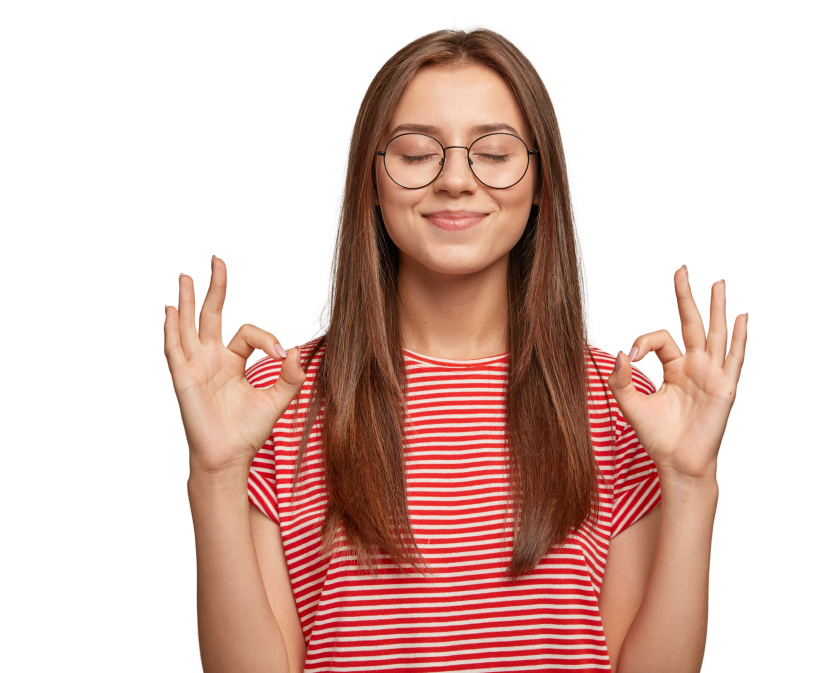
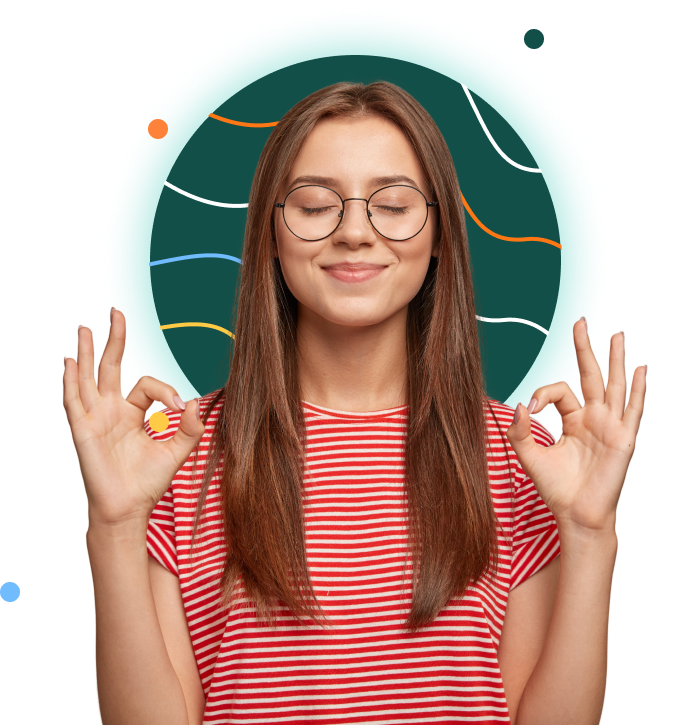
header__hero img replaced

diff --git a/css/main.min.css b/css/main.min.css
@@ -1,1 +1,1 @@
-@import"https://fonts.googleapis.com/css2?family=Open+Sans:ital,wght@0,300..800;1,300..800&family=Poppins:ital,wght@0,100;0,200;0,300;0,400;0,500;0,600;0,700;0,800;0,900;1,100;1,200;1,300;1,400;1,500;1,600;1,700;1,800;1,900&family=Roboto:ital,wght@0,100;0,300;0,400;0,500;0,700;0,900;1,100;1,300;1,400;1,500;1,700;1,900&display=swap";*{padding:0px;margin:0px;border:none}*,*::before,*::after{box-sizing:border-box}a,a:link,a:visited{text-decoration:none}a:hover{text-decoration:none}aside,nav,footer,header,section,main{display:block}h1,h2,h3,h4,h5,h6,p{font-size:inherit;font-weight:inherit}ul,ul li{list-style:none}img{vertical-align:top}img,svg{max-width:100%;height:auto}address{font-style:normal}input,textarea,button,select{font-family:inherit;font-size:inherit;color:inherit;background-color:rgba(0,0,0,0)}input::-ms-clear{display:none}button,input[type=submit]{display:inline-block;box-shadow:none;background-color:rgba(0,0,0,0);background:none;cursor:pointer}input:focus,input:active,button:focus,button:active{outline:none}button::-moz-focus-inner{padding:0;border:0}label{cursor:pointer}legend{display:block}:root{--container-width: 1124px;--container-padding: 15px;--font-main: "Roboto", sans-serif;--font-secondary: "Poppins", sans-serif;--font-third: "Open Sans", sans-serif;--page-bg: #fff;--header-bg: #e9fbf9;--bage-bg: #fff;--text-color: #464646;--section-title: #021d1a;--accent: #ff823b;--accent-second: #124f48;--accent-second-muted: rgba(18, 79, 72, 0.37);--bage-text: #ff6107;--laptop-size: 1199px;--table-size: 959px;--mobile-size: 599px}html{scroll-behavior:smooth}body{font-family:var(--font-main);background-color:var(--page-bg);color:var(--text-color)}.none{display:none !important}.visually-hidden{position:absolute;width:1px;height:1px;margin:-1px;border:0;padding:0;white-space:nowrap;-webkit-clip-path:inset(100%);clip-path:inset(100%);clip:rect(0 0 0 0);overflow:hidden}.no-scroll{overflow-y:hidden}.container{padding:0 var(--container-padding);max-width:var(--container-width);margin:0 auto}@media(max-width: 1199px){.container{width:900px}}@media(max-width: 899px){.container{width:768px}}@media(max-width: 599px){.container{width:100%}}.container-wide{padding:0 var(--container-padding);max-width:1145px;margin:0 auto}.container-figure{padding:0 var(--container-padding);margin:0 auto;max-width:1349px}.logo{font-size:32px}.nav__list{display:flex;-moz-column-gap:62px;column-gap:62px}.nav__list a{position:relative;font-size:16px;color:var(--text-color);transition:all .2s ease-in}.nav__list a::before{position:absolute;content:"";height:2px;width:0;bottom:0;right:0;transition:width .2s ease-in;background-color:#ff7715}.nav__list a:hover{text-shadow:-0.2px 0 0 #0b041b}.nav__list a:hover::before{width:29px}.nav-mobile{display:none}.nav-icon{width:40px;height:25px;display:none;justify-content:center;align-items:center;cursor:pointer}.nav-icon__middle{position:relative;width:40px;height:5px;background-color:#124f48}.nav-icon__middle::before,.nav-icon__middle::after{content:"";position:absolute;left:0;width:40px;height:5px;transition:transform .2s ease-in,top .2s linear .2s;background-color:#124f48}.nav-icon__middle::before{top:-10px}.nav-icon__middle::after{top:10px}.nav-icon.nav-icon--active{z-index:6;position:fixed;top:30px;right:80px}.nav-icon.nav-icon--active .nav-icon__middle{background-color:rgba(0,0,0,0)}.nav-icon.nav-icon--active .nav-icon__middle::before,.nav-icon.nav-icon--active .nav-icon__middle::after{top:0;transition:top .2s linear,transform .2s ease-in .2s;background-color:#124f48}.nav-icon.nav-icon--active .nav-icon__middle::before{transform:rotate(45deg)}.nav-icon.nav-icon--active .nav-icon__middle::after{transform:rotate(-45deg)}.h1{font-weight:800;font-size:64px;line-height:1.25;color:var(--section-title);font-family:var(--font-secondary)}.h2{font-weight:700;font-size:44px;line-height:1.82;color:var(--section-title);font-family:var(--font-secondary)}.h3{font-weight:700;font-size:24px;color:var(--section-title)}.h3--darker{color:#000}.word-accent{color:#ff823b}.color-figure{height:724px;background-image:url("./../img/header/rectangle.svg");background-position:center center;background-size:100% 100%;background-repeat:no-repeat;border-radius:30px}.badge{display:inline-block;padding-left:20px;padding-right:20px;height:38px;line-height:38px;border-radius:4px;border:1px solid #f2faf9;background-color:var(--bage-bg);font-size:16px;letter-spacing:.1em;color:#ff6107}.widget{padding:43px 36px 45px 39px;width:314px;height:314px;display:grid;grid-template-columns:repeat(2, 1fr);grid-template-rows:repeat(2, 1fr);-moz-column-gap:31px;column-gap:31px;row-gap:18px;background-color:rgba(255,255,255,.9);box-shadow:0 3px 84px 0 rgba(142,199,192,.3);border-radius:20px}.socials{display:flex;align-items:center;justify-content:space-between}.socials li:not(:last-child){margin-right:30px}.socials a{opacity:.51;transition:opacity .2s ease-in}.socials a:hover{opacity:1}.btn-video{position:relative;padding-left:55px;padding-right:36px;height:57px;font-weight:700;font-size:18px;letter-spacing:.05em;color:#ff823b}.btn-video::before{position:absolute;top:50%;left:0;transform:translateY(-50%);content:url("./../img/icons/header/play.svg");width:39px;height:39px;background-color:#fff;border-radius:50%;box-shadow:0 0 24px 0 #d6e2e1;line-height:39px}.btn-solid{padding-left:39px;padding-right:39px;display:flex;justify-content:space-between;align-items:center;height:57px;line-height:57px;border-radius:31px;background-color:#ff823b;font-weight:700;font-size:18px;letter-spacing:.05em;color:#fff;transition:all .2s ease-in}.btn-solid:hover{background-color:#124f48}.btn-solid--login{background-color:#124f48}.btn-solid--login:hover{background-color:#ff823b}.btn-solid--view-more{padding-left:36px;padding-right:36px;-moz-column-gap:12px;column-gap:12px}.btn-solid--subscribe{padding-right:35px;-moz-column-gap:26px;column-gap:26px}.btn-outline{display:flex;align-items:center;-moz-column-gap:10px;column-gap:10px;height:57px;padding-left:35px;padding-right:35px;border-radius:31px;background-color:#fff;font-weight:700;font-size:18px;letter-spacing:.05em;color:#124f48;transform:translateX(-17%);transition:all .2s ease-in}.btn-outline svg{stroke:#124f48;transition:stroke .1s ease}.btn-outline:hover{background-color:#ff823b;color:#fff}.btn-outline:hover svg{stroke:#fff}.service-card{padding:50px 35px 45px 35px;display:block;width:365px;height:415px;cursor:pointer;transition:all .2s ease-in}.service-card:not(:last-child){margin-right:16px}.service-card:hover{background-color:#fff;box-shadow:0 20px 84px 0 rgba(245,245,245,.8)}.service-card:hover .btn-outline{transform:translateX(0);background-color:#ff823b;color:#fff}.service-card:hover .btn-outline svg{stroke:#fff}.service-card:hover .service-card__img svg{box-shadow:30px 44px 84px 0 rgba(208,211,231,.31)}.service-card__img{margin-bottom:27px;display:flex;justify-content:center;align-items:center;width:80px;height:80px;background-color:#dbffe9;border-radius:20px;overflow:hidden;transition:box-shadow .1s ease-in}.service-card__img--clip{background-color:#fff7ca}.service-card__img--pie{background-color:#ffe9e0}.service-card__text{margin-bottom:10px}.service-card__title{margin-bottom:35px;display:-webkit-box;-webkit-box-orient:vertical;-webkit-line-clamp:1;overflow:hidden}.service-card__desc{height:81px;font-family:var(--font-third);font-size:18px;line-height:2;display:-webkit-box;-webkit-box-orient:vertical;-webkit-line-clamp:2;overflow:hidden}.service-card__btn{width:206px}.achievements-card{width:511px}.achievements-card:not(:last-child){margin-bottom:45px}.achievements-card__img{margin-bottom:35px;width:100%;height:600px;border-radius:20px;overflow:hidden;background-color:#edfffd;background-image:url("./../img/achievements/circle.svg");background-position:51% 274%;background-size:506px 506px;background-repeat:no-repeat}.achievements-card__img img{position:relative;left:50%;top:71px;transform:translateX(-50%);width:377px;height:529px;border-top-left-radius:20px;border-top-right-radius:20px;box-shadow:0 21px 94px 0 rgba(131,193,186,.38);-o-object-fit:cover;object-fit:cover;overflow:hidden}.achievements-card__img--lightBg{background-color:#fff8f4;background-image:url("./../img/achievements/circle-light.svg")}.achievements-card__img--lightBg img{box-shadow:0 34px 80px 0 rgba(80,153,145,.24)}.achievements-card__title{margin-bottom:37px}.achievements-card__desc{font-size:18px;line-height:2}.achievements-card__btn{width:245px}.data-grid{margin-left:auto;width:465px;height:410px}.data-grid li{padding:14px 0;display:grid;grid-template-columns:83px 162px 1fr;-moz-column-gap:38px;column-gap:38px;align-items:center}.data-grid li:not(:last-child){margin-bottom:30px}.data-grid__number{font-weight:700;font-size:36px;line-height:1.44;color:rgba(18,79,72,.37)}.data-grid__title{font-weight:500;font-size:18px;line-height:1.44;color:#124f48}.data-grid__desc{font-weight:700;font-size:14px;line-height:1.86;color:#ff823b}.slider__item{display:inline-block;width:520px;height:649px;padding-bottom:19px;border-radius:10px;background-color:#fff;cursor:pointer;transition:all .2s ease-in}.slider__item:hover .slider__img img{filter:saturate(130%)}.slider__item:hover .btn-outline{transform:translateX(0);background-color:var(--accent);color:#fff}.slider__item:hover .btn-outline svg{stroke:#fff}.slider__img{margin-bottom:43px;padding-top:18px;position:relative;width:510px;height:328px;text-align:center;overflow:hidden}.slider__img img{transition:all .2s ease-in;pointer-events:none}.slider__badge{position:absolute;z-index:1;top:0;right:0;display:flex;align-items:center;width:75px;height:75px;padding:8px 17px;border-radius:10px;background-color:#124f48;font-weight:700;font-size:24px;line-height:1.25;color:#fff;transition:all .2s ease-in}.slider__text{margin-bottom:45px;padding-right:4px}.slider__title{margin-bottom:35px;font-weight:700;font-size:24px;line-height:1.25;color:#000}.slider__btn{width:207px}.slider__desc{height:90px;font-size:18px;line-height:1.67;color:var(--text-color);overflow:hidden}.slider__desc p{display:-webkit-box;-webkit-box-orient:vertical;-webkit-line-clamp:3;overflow:hidden}.slider__arrow{position:absolute;top:0;right:0;transition:opacity .2s ease-in}.slider__arrow:hover{opacity:.5}.slider__arrow--left{margin-right:38px}.header-top{padding-top:40px;padding-bottom:70px}.header-top__row{display:flex;align-items:center;justify-content:space-between;width:1094px}.header-top__logo{margin-right:153px;display:inline-block}.header-top__btn{margin-left:auto}.header{position:relative;height:850px}.header__widget{position:absolute;bottom:45px;right:50%;transform:translateX(107%)}.header__content{padding-top:53px;width:1180px;overflow:hidden;margin-left:110px;position:relative}.header__hero{position:relative;margin-left:auto;width:900px;height:673px;transform:translateX(12%);pointer-events:none}.header__hero img{width:100%;height:100%;-o-object-fit:contain;object-fit:contain}.header__hero::after{z-index:-1;content:url("./../img/header/circle.svg");position:absolute;top:0;left:50%;transform:translateX(-41%)}.header__hero::before{content:url("./../img/header/dots.svg");position:absolute;top:0;left:0;transform:translate(25%, -4%)}.header__text{padding-top:20px;position:absolute;width:570px}.header__badge{margin-bottom:30px}.header__title{margin-bottom:40px}.header__desc{margin-bottom:51px;max-width:428px;font-size:18px;line-height:1.67}.header__desc p+p{margin-top:10px}.header__buttons{display:flex;-moz-column-gap:55px;column-gap:55px}.our-clients{padding-top:45px;padding-bottom:100px}.our-clients__list{display:flex;flex-wrap:wrap;gap:30px}.our-clients__list li{display:flex;justify-content:center;align-items:center;width:255px;height:103px;background-color:#f1faf9;border-radius:10px}.service{padding-bottom:158px}.service__header{margin-bottom:15px;display:flex;align-items:center}.service__title{max-width:524px}.service__desc{margin-left:111px;max-width:428px;font-size:18px;line-height:1.67;color:var(--text-color)}.service-card__row{display:flex}.achievements{padding-bottom:140px}.achievements__row{display:flex;-moz-column-gap:56px;column-gap:56px}.achievements__column:first-child{width:540px}.achievements__badge{margin-bottom:10px}.achievements__title{margin-bottom:133px}.achievements__data-grid{margin-bottom:70px;padding-top:91px}.blog{padding-bottom:120px}.blog__badge{margin-bottom:25px;text-align:center}.blog__title{margin-bottom:8px;text-align:center}.blog__desc{margin-left:auto;margin-right:auto;max-width:662px;text-align:center}.blog__desc p{font-size:18px;line-height:1.67}.blog__slider{position:relative;padding-top:85px}.cta{padding-top:60px;padding-bottom:35px;background-color:#e9fbf9}.cta__title{margin-bottom:25px;margin-left:auto;margin-right:auto;max-width:690px;text-align:center}.cta__button{display:flex;justify-content:center;align-items:center}.cta__text{font-size:18px;color:#ff823b;font-family:var(--font-secondary)}.cta__link{margin-left:27px}.footer{color:#124f48;background-color:#e9fbf9}.footer__top{padding-top:35px;padding-bottom:70px}.footer__bottom{padding-top:21px;padding-bottom:21px;background-color:#124f48;color:#fff}.footer__row{display:flex;align-items:center;justify-content:space-between}.footer__logo-wrapper{height:64px;width:157px}.footer__logo{margin-bottom:8px}.footer__text{display:block;font-size:12px;color:#ff823b}.footer__text p+p{margin-top:5px}.footer__nav{display:flex}.footer__nav li:not(:last-child){margin-right:70px}.footer__nav a{font-size:18px;color:#124f48;transition:all .2s ease-in}.footer__nav a:hover{color:#ff823b;text-shadow:-0.7px 0 .1px #ff823b}.footer__contact{font-size:18px;line-height:2}.footer__contact a{color:#124f48;transition:all .2s ease-in}.footer__contact a:hover{color:#ff823b}.footer__copyright{font-size:18px;color:#fff;font-family:var(--font-secondary)}@media(max-width: 1199px){.header-top{padding-top:30px;padding-bottom:40px}.header-top__row{width:unset}.header-top__logo{margin:0}.header-top__btn{margin-left:0}}@media(max-width: 899px){.header-top{padding-top:20px;padding-bottom:30px}.nav{display:none}.btn-solid{display:none;padding-left:30px;padding-right:30px;height:45px;line-height:45px;font-size:16px}.nav-icon{display:flex}.nav-icon.nav-icon--active .nav-icon__middle::before,.nav-icon.nav-icon--active .nav-icon__middle::after{background-color:#fff}.nav-mobile{z-index:5;position:fixed;padding-top:100px;display:flex;justify-content:center;top:0;right:0;left:0;bottom:0;background-color:rgba(18,79,72,.8);transform:translateY(-100%);transition:transform .3s ease-in}.nav-mobile.nav-mobile--active{transform:translateY(0)}.nav-mobile__nav{text-align:center;font-size:20px}.nav-mobile__nav li{margin-bottom:25px}.nav-mobile__nav a{color:#fff;transition:color .2s ease-in}.nav-mobile__nav a:hover{color:#ff823b}}@media(max-width: 599px){.nav-mobile{align-items:center}.nav-icon.nav-icon--active{right:15px}}/*# sourceMappingURL=main.min.css.map */
+@import"https://fonts.googleapis.com/css2?family=Open+Sans:ital,wght@0,300..800;1,300..800&family=Poppins:ital,wght@0,100;0,200;0,300;0,400;0,500;0,600;0,700;0,800;0,900;1,100;1,200;1,300;1,400;1,500;1,600;1,700;1,800;1,900&family=Roboto:ital,wght@0,100;0,300;0,400;0,500;0,700;0,900;1,100;1,300;1,400;1,500;1,700;1,900&display=swap";*{padding:0px;margin:0px;border:none}*,*::before,*::after{box-sizing:border-box}a,a:link,a:visited{text-decoration:none}a:hover{text-decoration:none}aside,nav,footer,header,section,main{display:block}h1,h2,h3,h4,h5,h6,p{font-size:inherit;font-weight:inherit}ul,ul li{list-style:none}img{vertical-align:top}img,svg{max-width:100%;height:auto}address{font-style:normal}input,textarea,button,select{font-family:inherit;font-size:inherit;color:inherit;background-color:rgba(0,0,0,0)}input::-ms-clear{display:none}button,input[type=submit]{display:inline-block;box-shadow:none;background-color:rgba(0,0,0,0);background:none;cursor:pointer}input:focus,input:active,button:focus,button:active{outline:none}button::-moz-focus-inner{padding:0;border:0}label{cursor:pointer}legend{display:block}:root{--container-width: 1124px;--container-padding: 15px;--font-main: "Roboto", sans-serif;--font-secondary: "Poppins", sans-serif;--font-third: "Open Sans", sans-serif;--page-bg: #fff;--header-bg: #e9fbf9;--bage-bg: #fff;--text-color: #464646;--section-title: #021d1a;--accent: #ff823b;--accent-second: #124f48;--accent-second-muted: rgba(18, 79, 72, 0.37);--bage-text: #ff6107;--laptop-size: 1199px;--table-size: 959px;--mobile-size: 599px}html{scroll-behavior:smooth}body{font-family:var(--font-main);background-color:var(--page-bg);color:var(--text-color)}.none{display:none !important}.visually-hidden{position:absolute;width:1px;height:1px;margin:-1px;border:0;padding:0;white-space:nowrap;-webkit-clip-path:inset(100%);clip-path:inset(100%);clip:rect(0 0 0 0);overflow:hidden}.no-scroll{overflow-y:hidden}.container{padding:0 var(--container-padding);max-width:1145px;margin:0 auto}@media(max-width: 1199px){.container{width:900px}}@media(max-width: 899px){.container{width:768px}}@media(max-width: 599px){.container{width:100%}}.container-wide{margin:0 auto;max-width:1320px}.logo{font-size:32px}.nav__list{display:flex;-moz-column-gap:62px;column-gap:62px}.nav__list a{position:relative;font-size:16px;color:var(--text-color);transition:all .2s ease-in}.nav__list a::before{position:absolute;content:"";height:2px;width:0;bottom:0;right:0;transition:width .2s ease-in;background-color:#ff7715}.nav__list a:hover{text-shadow:-0.2px 0 0 #0b041b}.nav__list a:hover::before{width:29px}.nav-mobile{display:none}.nav-icon{width:40px;height:25px;display:none;justify-content:center;align-items:center;cursor:pointer}.nav-icon__middle{position:relative;width:40px;height:5px;background-color:#124f48}.nav-icon__middle::before,.nav-icon__middle::after{content:"";position:absolute;left:0;width:40px;height:5px;transition:transform .2s ease-in,top .2s linear .2s;background-color:#124f48}.nav-icon__middle::before{top:-10px}.nav-icon__middle::after{top:10px}.nav-icon.nav-icon--active{z-index:6;position:fixed;top:30px;right:80px}.nav-icon.nav-icon--active .nav-icon__middle{background-color:rgba(0,0,0,0)}.nav-icon.nav-icon--active .nav-icon__middle::before,.nav-icon.nav-icon--active .nav-icon__middle::after{top:0;transition:top .2s linear,transform .2s ease-in .2s;background-color:#124f48}.nav-icon.nav-icon--active .nav-icon__middle::before{transform:rotate(45deg)}.nav-icon.nav-icon--active .nav-icon__middle::after{transform:rotate(-45deg)}.h1{font-weight:800;font-size:64px;line-height:1.25;color:var(--section-title);font-family:var(--font-secondary)}.h2{font-weight:700;font-size:44px;line-height:1.82;color:var(--section-title);font-family:var(--font-secondary)}.h3{font-weight:700;font-size:24px;color:var(--section-title)}.h3--darker{color:#000}.word-accent{color:#ff823b}.color-figure{background-color:#e9fbf9;border-radius:30px}.badge{display:inline-block;padding-left:20px;padding-right:20px;height:38px;line-height:38px;border-radius:4px;border:1px solid #f2faf9;background-color:var(--bage-bg);font-size:16px;letter-spacing:.1em;color:#ff6107}.widget{padding:43px 36px 45px 39px;width:314px;height:314px;display:grid;grid-template-columns:repeat(2, 1fr);grid-template-rows:repeat(2, 1fr);-moz-column-gap:31px;column-gap:31px;row-gap:18px;background-color:rgba(255,255,255,.9);box-shadow:0 3px 84px 0 rgba(142,199,192,.3);border-radius:20px}.socials{display:flex;align-items:center;justify-content:space-between}.socials li:not(:last-child){margin-right:30px}.socials a{opacity:.51;transition:opacity .2s ease-in}.socials a:hover{opacity:1}.btn-video{position:relative;padding-left:55px;padding-right:36px;height:57px;font-weight:700;font-size:18px;letter-spacing:.05em;color:#ff823b}.btn-video::before{position:absolute;top:50%;left:0;transform:translateY(-50%);content:url("./../img/icons/header/play.svg");width:39px;height:39px;background-color:#fff;border-radius:50%;box-shadow:0 0 24px 0 #d6e2e1;line-height:39px}.btn-solid{padding-left:39px;padding-right:39px;display:flex;justify-content:space-between;align-items:center;height:57px;line-height:57px;border-radius:31px;background-color:#ff823b;font-weight:700;font-size:18px;letter-spacing:.05em;color:#fff;transition:all .2s ease-in}.btn-solid:hover{background-color:#124f48}.btn-solid--login{background-color:#124f48}.btn-solid--login:hover{background-color:#ff823b}.btn-solid--view-more{padding-left:36px;padding-right:36px;-moz-column-gap:12px;column-gap:12px}.btn-solid--subscribe{padding-right:35px;-moz-column-gap:26px;column-gap:26px}.btn-outline{display:flex;align-items:center;-moz-column-gap:10px;column-gap:10px;height:57px;padding-left:35px;padding-right:35px;border-radius:31px;background-color:#fff;font-weight:700;font-size:18px;letter-spacing:.05em;color:#124f48;transform:translateX(-17%);transition:all .2s ease-in}.btn-outline svg{stroke:#124f48;transition:stroke .1s ease}.btn-outline:hover{background-color:#ff823b;color:#fff}.btn-outline:hover svg{stroke:#fff}.service-card{padding:50px 35px 45px 35px;display:block;width:365px;height:415px;cursor:pointer;transition:all .2s ease-in}.service-card:not(:last-child){margin-right:16px}.service-card:hover{background-color:#fff;box-shadow:0 20px 84px 0 rgba(245,245,245,.8)}.service-card:hover .btn-outline{transform:translateX(0);background-color:#ff823b;color:#fff}.service-card:hover .btn-outline svg{stroke:#fff}.service-card:hover .service-card__img svg{box-shadow:30px 44px 84px 0 rgba(208,211,231,.31)}.service-card__img{margin-bottom:27px;display:flex;justify-content:center;align-items:center;width:80px;height:80px;background-color:#dbffe9;border-radius:20px;overflow:hidden;transition:box-shadow .1s ease-in}.service-card__img--clip{background-color:#fff7ca}.service-card__img--pie{background-color:#ffe9e0}.service-card__text{margin-bottom:10px}.service-card__title{margin-bottom:35px;display:-webkit-box;-webkit-box-orient:vertical;-webkit-line-clamp:1;overflow:hidden}.service-card__desc{height:81px;font-family:var(--font-third);font-size:18px;line-height:2;display:-webkit-box;-webkit-box-orient:vertical;-webkit-line-clamp:2;overflow:hidden}.service-card__btn{width:206px}.achievements-card{width:511px}.achievements-card:not(:last-child){margin-bottom:45px}.achievements-card__img{margin-bottom:35px;width:100%;height:600px;border-radius:20px;overflow:hidden;background-color:#edfffd;background-image:url("./../img/achievements/circle.svg");background-position:51% 274%;background-size:506px 506px;background-repeat:no-repeat}.achievements-card__img img{position:relative;left:50%;top:71px;transform:translateX(-50%);width:377px;height:529px;border-top-left-radius:20px;border-top-right-radius:20px;box-shadow:0 21px 94px 0 rgba(131,193,186,.38);-o-object-fit:cover;object-fit:cover;overflow:hidden}.achievements-card__img--lightBg{background-color:#fff8f4;background-image:url("./../img/achievements/circle-light.svg")}.achievements-card__img--lightBg img{box-shadow:0 34px 80px 0 rgba(80,153,145,.24)}.achievements-card__title{margin-bottom:37px}.achievements-card__desc{font-size:18px;line-height:2}.achievements-card__btn{width:245px}.data-grid{margin-left:auto;width:465px;height:410px}.data-grid li{padding:14px 0;display:grid;grid-template-columns:83px 162px 1fr;-moz-column-gap:38px;column-gap:38px;align-items:center}.data-grid li:not(:last-child){margin-bottom:30px}.data-grid__number{font-weight:700;font-size:36px;line-height:1.44;color:rgba(18,79,72,.37)}.data-grid__title{font-weight:500;font-size:18px;line-height:1.44;color:#124f48}.data-grid__desc{font-weight:700;font-size:14px;line-height:1.86;color:#ff823b}.slider__item{display:inline-block;width:520px;height:649px;padding-bottom:19px;border-radius:10px;background-color:#fff;cursor:pointer;transition:all .2s ease-in}.slider__item:hover .slider__img img{filter:saturate(130%)}.slider__item:hover .btn-outline{transform:translateX(0);background-color:var(--accent);color:#fff}.slider__item:hover .btn-outline svg{stroke:#fff}.slider__img{margin-bottom:43px;padding-top:18px;position:relative;width:510px;height:328px;text-align:center;overflow:hidden}.slider__img img{transition:all .2s ease-in;pointer-events:none}.slider__badge{position:absolute;z-index:1;top:0;right:0;display:flex;align-items:center;width:75px;height:75px;padding:8px 17px;border-radius:10px;background-color:#124f48;font-weight:700;font-size:24px;line-height:1.25;color:#fff;transition:all .2s ease-in}.slider__text{margin-bottom:45px;padding-right:4px}.slider__title{margin-bottom:35px;font-weight:700;font-size:24px;line-height:1.25;color:#000}.slider__btn{width:207px}.slider__desc{height:90px;font-size:18px;line-height:1.67;color:var(--text-color);overflow:hidden}.slider__desc p{display:-webkit-box;-webkit-box-orient:vertical;-webkit-line-clamp:3;overflow:hidden}.slider__arrow{position:absolute;top:0;right:0;transition:opacity .2s ease-in}.slider__arrow:hover{opacity:.5}.slider__arrow--left{margin-right:38px}.header-top{padding-top:40px;padding-bottom:70px}.header-top__row{display:flex;align-items:center;justify-content:space-between;width:1094px}.header-top__logo{margin-right:153px;display:inline-block}.header-top__btn{margin-left:auto}.header{position:relative;height:850px}.header__widget{position:absolute;bottom:45px;right:50%;transform:translateX(107%)}.header__content{padding-top:53px;overflow:hidden;margin-left:110px;position:relative}.header__text{padding-top:20px;position:absolute;width:570px}.header__badge{margin-bottom:30px}.header__title{margin-bottom:40px}.header__desc{margin-bottom:51px;max-width:428px;font-size:18px;line-height:1.67}.header__desc p+p{margin-top:10px}.header__hero{height:677px;background-image:url("./../img/header/hero@2x.png");background-position:center center;background-size:cover;background-repeat:no-repeat}.header__buttons{display:flex;-moz-column-gap:55px;column-gap:55px}.our-clients{padding-top:45px;padding-bottom:100px}.our-clients__list{display:flex;flex-wrap:wrap;gap:30px}.our-clients__list li{display:flex;justify-content:center;align-items:center;width:255px;height:103px;background-color:#f1faf9;border-radius:10px}.service{padding-bottom:158px}.service__header{margin-bottom:15px;display:flex;align-items:center}.service__title{max-width:524px}.service__desc{margin-left:111px;max-width:428px;font-size:18px;line-height:1.67;color:var(--text-color)}.service-card__row{display:flex}.achievements{padding-bottom:140px}.achievements__row{display:flex;-moz-column-gap:56px;column-gap:56px}.achievements__column:first-child{width:540px}.achievements__badge{margin-bottom:10px}.achievements__title{margin-bottom:133px}.achievements__data-grid{margin-bottom:70px;padding-top:91px}.blog{padding-bottom:120px}.blog__badge{margin-bottom:25px;text-align:center}.blog__title{margin-bottom:8px;text-align:center}.blog__desc{margin-left:auto;margin-right:auto;max-width:662px;text-align:center}.blog__desc p{font-size:18px;line-height:1.67}.blog__slider{position:relative;padding-top:85px}.cta{padding-top:60px;padding-bottom:35px;background-color:#e9fbf9}.cta__title{margin-bottom:25px;margin-left:auto;margin-right:auto;max-width:690px;text-align:center}.cta__button{display:flex;justify-content:center;align-items:center}.cta__text{font-size:18px;color:#ff823b;font-family:var(--font-secondary)}.cta__link{margin-left:27px}.footer{color:#124f48;background-color:#e9fbf9}.footer__top{padding-top:35px;padding-bottom:70px}.footer__bottom{padding-top:21px;padding-bottom:21px;background-color:#124f48;color:#fff}.footer__row{display:flex;align-items:center;justify-content:space-between}.footer__logo-wrapper{height:64px;width:157px}.footer__logo{margin-bottom:8px}.footer__text{display:block;font-size:12px;color:#ff823b}.footer__text p+p{margin-top:5px}.footer__nav{display:flex}.footer__nav li:not(:last-child){margin-right:70px}.footer__nav a{font-size:18px;color:#124f48;transition:all .2s ease-in}.footer__nav a:hover{color:#ff823b;text-shadow:-0.7px 0 .1px #ff823b}.footer__contact{font-size:18px;line-height:2}.footer__contact a{color:#124f48;transition:all .2s ease-in}.footer__contact a:hover{color:#ff823b}.footer__copyright{font-size:18px;color:#fff;font-family:var(--font-secondary)}@media(max-width: 1325px){.h1{font-weight:800;font-size:50px;line-height:1.25}.header__text{padding-top:15px;width:470px}.header__hero{width:800px;height:550px;transform:translateX(12%);pointer-events:none}.header__hero::after{width:333px;height:333px;left:50%;transform:translateX(-50%)}.header__hero::before{width:444px;height:473px;top:0;left:-70px}}@media(max-width: 1199px){.header-top{padding-top:30px;padding-bottom:40px}.header-top__row{width:unset}.header-top__logo{margin:0}.header-top__btn{margin-left:0}}@media(max-width: 899px){.header-top{padding-top:20px;padding-bottom:30px}.nav{display:none}.btn-solid{display:none;padding-left:30px;padding-right:30px;height:45px;line-height:45px;font-size:16px}.nav-icon{display:flex}.nav-icon.nav-icon--active .nav-icon__middle::before,.nav-icon.nav-icon--active .nav-icon__middle::after{background-color:#fff}.nav-mobile{z-index:5;position:fixed;padding-top:100px;display:flex;justify-content:center;top:0;right:0;left:0;bottom:0;background-color:rgba(18,79,72,.8);transform:translateY(-100%);transition:transform .3s ease-in}.nav-mobile.nav-mobile--active{transform:translateY(0)}.nav-mobile__nav{text-align:center;font-size:20px}.nav-mobile__nav li{margin-bottom:25px}.nav-mobile__nav a{color:#fff;transition:color .2s ease-in}.nav-mobile__nav a:hover{color:#ff823b}}@media(max-width: 599px){.nav-mobile{align-items:center}.nav-icon.nav-icon--active{right:15px}}/*# sourceMappingURL=main.min.css.map */

diff --git a/css/main.css b/css/main.css
@@ -141,7 +141,7 @@ body {
 
 .container {
   padding: 0 var(--container-padding);
-  max-width: var(--container-width);
+  max-width: 1145px;
   margin: 0 auto;
   /* Mobile XS */
 }
@@ -162,15 +162,8 @@ body {
 }
 
 .container-wide {
-  padding: 0 var(--container-padding);
-  max-width: 1145px;
   margin: 0 auto;
-}
-
-.container-figure {
-  padding: 0 var(--container-padding);
-  margin: 0 auto;
-  max-width: 1349px;
+  max-width: 1320px;
 }
 
 /* Blocks */
@@ -294,11 +287,7 @@ body {
 }
 
 .color-figure {
-  height: 724px;
-  background-image: url("./../img/header/rectangle.svg");
-  background-position: center center;
-  background-size: 100% 100%;
-  background-repeat: no-repeat;
+  background-color: #e9fbf9;
   border-radius: 30px;
 }
 
@@ -743,40 +732,9 @@ body {
 
 .header__content {
   padding-top: 53px;
-  width: 1180px;
   overflow: hidden;
   margin-left: 110px;
   position: relative;
-}
-
-.header__hero {
-  position: relative;
-  margin-left: auto;
-  width: 900px;
-  height: 673px;
-  transform: translateX(12%);
-  pointer-events: none;
-}
-.header__hero img {
-  width: 100%;
-  height: 100%;
-  -o-object-fit: contain;
-     object-fit: contain;
-}
-.header__hero::after {
-  z-index: -1;
-  content: url("./../img/header/circle.svg");
-  position: absolute;
-  top: 0;
-  left: 50%;
-  transform: translateX(-41%);
-}
-.header__hero::before {
-  content: url("./../img/header/dots.svg");
-  position: absolute;
-  top: 0;
-  left: 0;
-  transform: translate(25%, -4%);
 }
 
 .header__text {
@@ -801,6 +759,14 @@ body {
 }
 .header__desc p + p {
   margin-top: 10px;
+}
+
+.header__hero {
+  height: 677px;
+  background-image: url("./../img/header/hero@2x.png");
+  background-position: center center;
+  background-size: cover;
+  background-repeat: no-repeat;
 }
 
 .header__buttons {
@@ -1018,6 +984,35 @@ body {
 }
 
 /* Media*/
+@media (max-width: 1325px) {
+  .h1 {
+    font-weight: 800;
+    font-size: 50px;
+    line-height: 1.25;
+  }
+  .header__text {
+    padding-top: 15px;
+    width: 470px;
+  }
+  .header__hero {
+    width: 800px;
+    height: 550px;
+    transform: translateX(12%);
+    pointer-events: none;
+  }
+  .header__hero::after {
+    width: 333px;
+    height: 333px;
+    left: 50%;
+    transform: translateX(-50%);
+  }
+  .header__hero::before {
+    width: 444px;
+    height: 473px;
+    top: 0;
+    left: -70px;
+  }
+}
 /* Tablet */
 @media (max-width: 1199px) {
   .header-top {

diff --git a/scss/sections/_header.scss b/scss/sections/_header.scss
@@ -12,46 +12,12 @@
 
 .header__content {
     padding-top: 53px;
-    width: 1180px;
+    // width: 1180px;
     overflow: hidden;
     margin-left: 110px;
 
     position: relative;
 }
-
-.header__hero {
-    position: relative;
-    margin-left: auto;
-    width: 900px;
-    height: 673px;
-    transform: translateX(12%);
-
-    pointer-events: none;
-
-    img {
-        width: 100%;
-        height: 100%;
-        object-fit: contain;
-    }
-
-    &::after {
-        z-index: -1;
-        content: url("./../img/header/circle.svg");
-        position: absolute;
-        top: 0;
-        left: 50%;
-        transform: translateX(-41%);
-    }
-
-    &::before {
-        content: url("./../img/header/dots.svg");
-        position: absolute;
-        top: 0;
-        left: 0;
-        transform: translate(25%, -4%)
-    }
-}
-
 
 .header__text {
     padding-top: 20px;
@@ -77,6 +43,16 @@
     p+p {
         margin-top: 10px;
     }
+}
+
+.header__hero {
+    height: 677px;
+
+    background-image: url('./../img/header/hero@2x.png');
+    background-position: center center; // x y
+    background-size: cover;
+    background-repeat: no-repeat;
+
 }
 
 .header__buttons {

diff --git a/scss/media/_desk-1325.scss b/scss/media/_desk-1325.scss
@@ -1,0 +1,38 @@
+@media (max-width: 1325px) {
+
+    .h1 {
+        font-weight: 800;
+        font-size: 50px;
+        line-height: 1.25;
+    } 
+
+    .header__text {
+        padding-top: 15px;
+        width: 470px;
+    }
+    
+    .header__content {
+        
+    }
+
+    .header__hero {
+        width: 800px;
+        height: 550px;
+        transform: translateX(12%);
+        pointer-events: none;
+
+        &::after {
+            width: 333px;
+            height: 333px;
+            left: 50%;
+            transform: translateX(-50%);
+        }
+    
+        &::before {
+            width: 444px;
+            height: 473px;
+            top: 0;
+            left: -70px;
+        }
+    }
+}

diff --git a/index.html b/index.html
@@ -72,8 +72,8 @@
     <!--// header-top -->
 
     <!--*** header ***-->
-    <div class="header none">
-        <div class="container-figure color-figure">
+    <div class="header">
+        <div class="container-wide color-figure">
             <div class="header__content">
                 <div class="header__text">
                     <!-- badge -->
@@ -104,9 +104,7 @@
                   </div>
 
                 <!-- hero img -->
-                <div class="header__hero">
-                    <img src="./img/header/hero.png" alt="hero">
-                </div>
+                <div class="header__hero"></div>
                 <!-- hero img -->    
             </div>
         </div>

diff --git a/scss/base/_containers.scss b/scss/base/_containers.scss
@@ -1,6 +1,6 @@
 .container {
     padding: 0 var(--container-padding);
-    max-width: var(--container-width);
+    max-width: 1145px;
     margin: 0 auto;
 
     @media (max-width: 1199px) {
@@ -18,14 +18,10 @@
 }
 
 .container-wide {
-    padding: 0 var(--container-padding);
-    max-width: 1145px;
     margin: 0 auto;
+    max-width: 1320px;
+    
 }
 
-.container-figure {
-    padding: 0 var(--container-padding);
-    margin: 0 auto;
-    max-width: 1349px;
-}
+
 

diff --git a/scss/blocks/_components.scss b/scss/blocks/_components.scss
@@ -1,9 +1,5 @@
 .color-figure {
-    height: 724px;
-    background-image: url("./../img/header/rectangle.svg");
-    background-position: center center; // x y
-    background-size: 100% 100%;
-    background-repeat: no-repeat;
+    background-color: #e9fbf9;
     border-radius: 30px;
 }
 

diff --git a/scss/main.scss b/scss/main.scss
@@ -32,6 +32,7 @@
 @import "./sections/footer.scss";
 
 /* Media*/
+@import "./media/desk-1325";
 @import "./media/tablet";
 @import "./media/mobile";
 @import "./media/mobile-xs";
